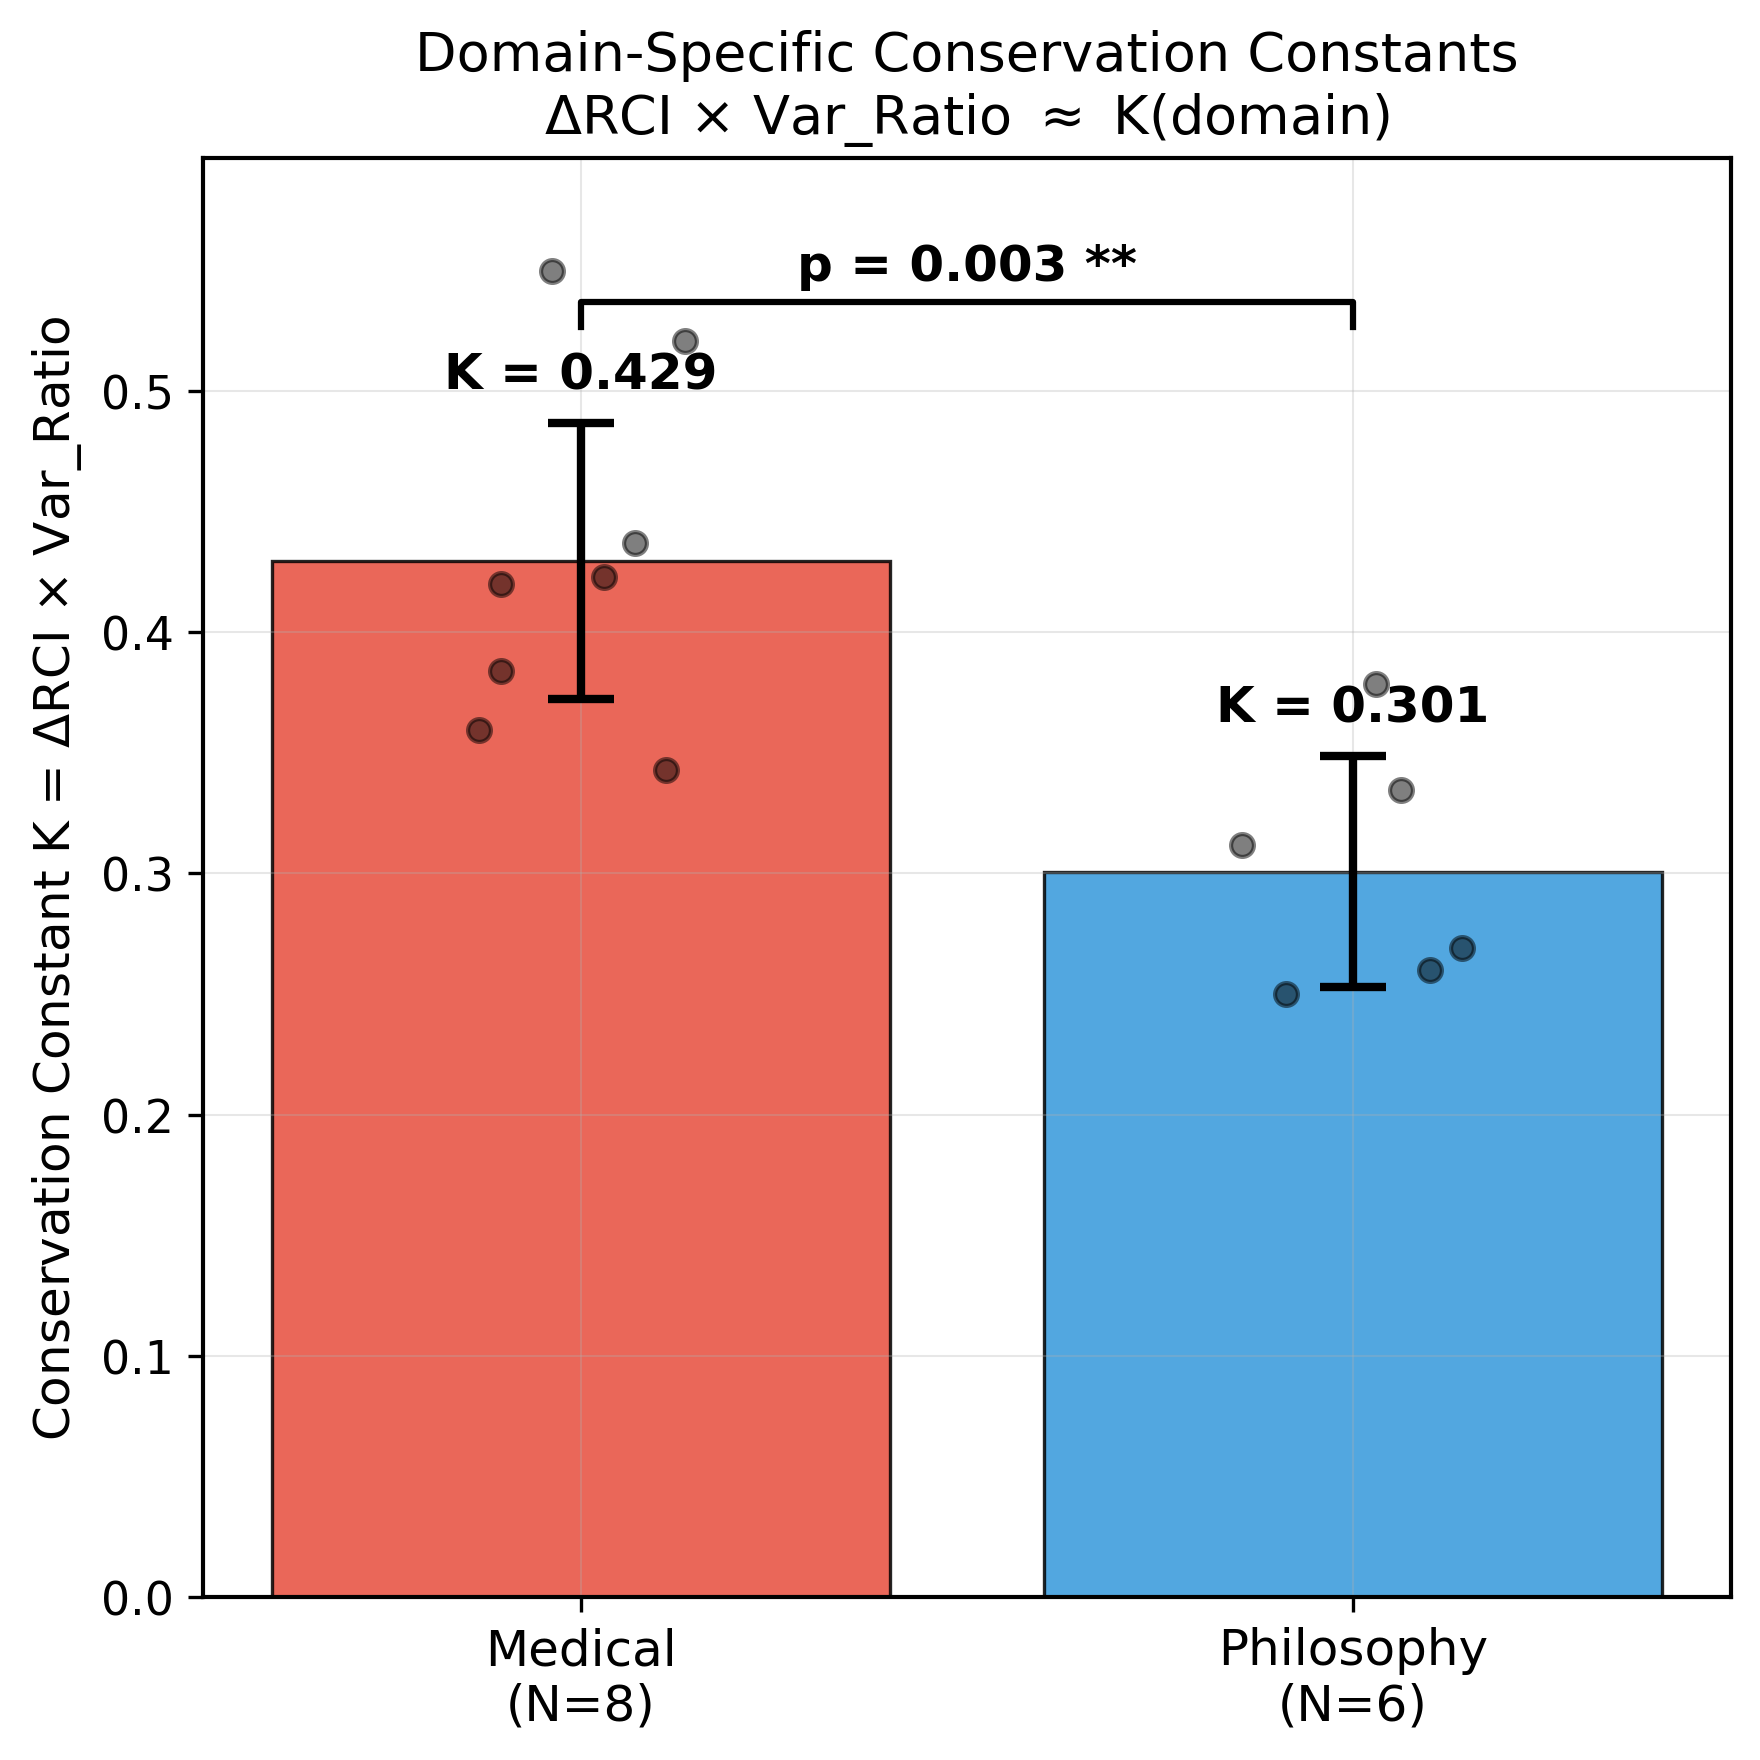
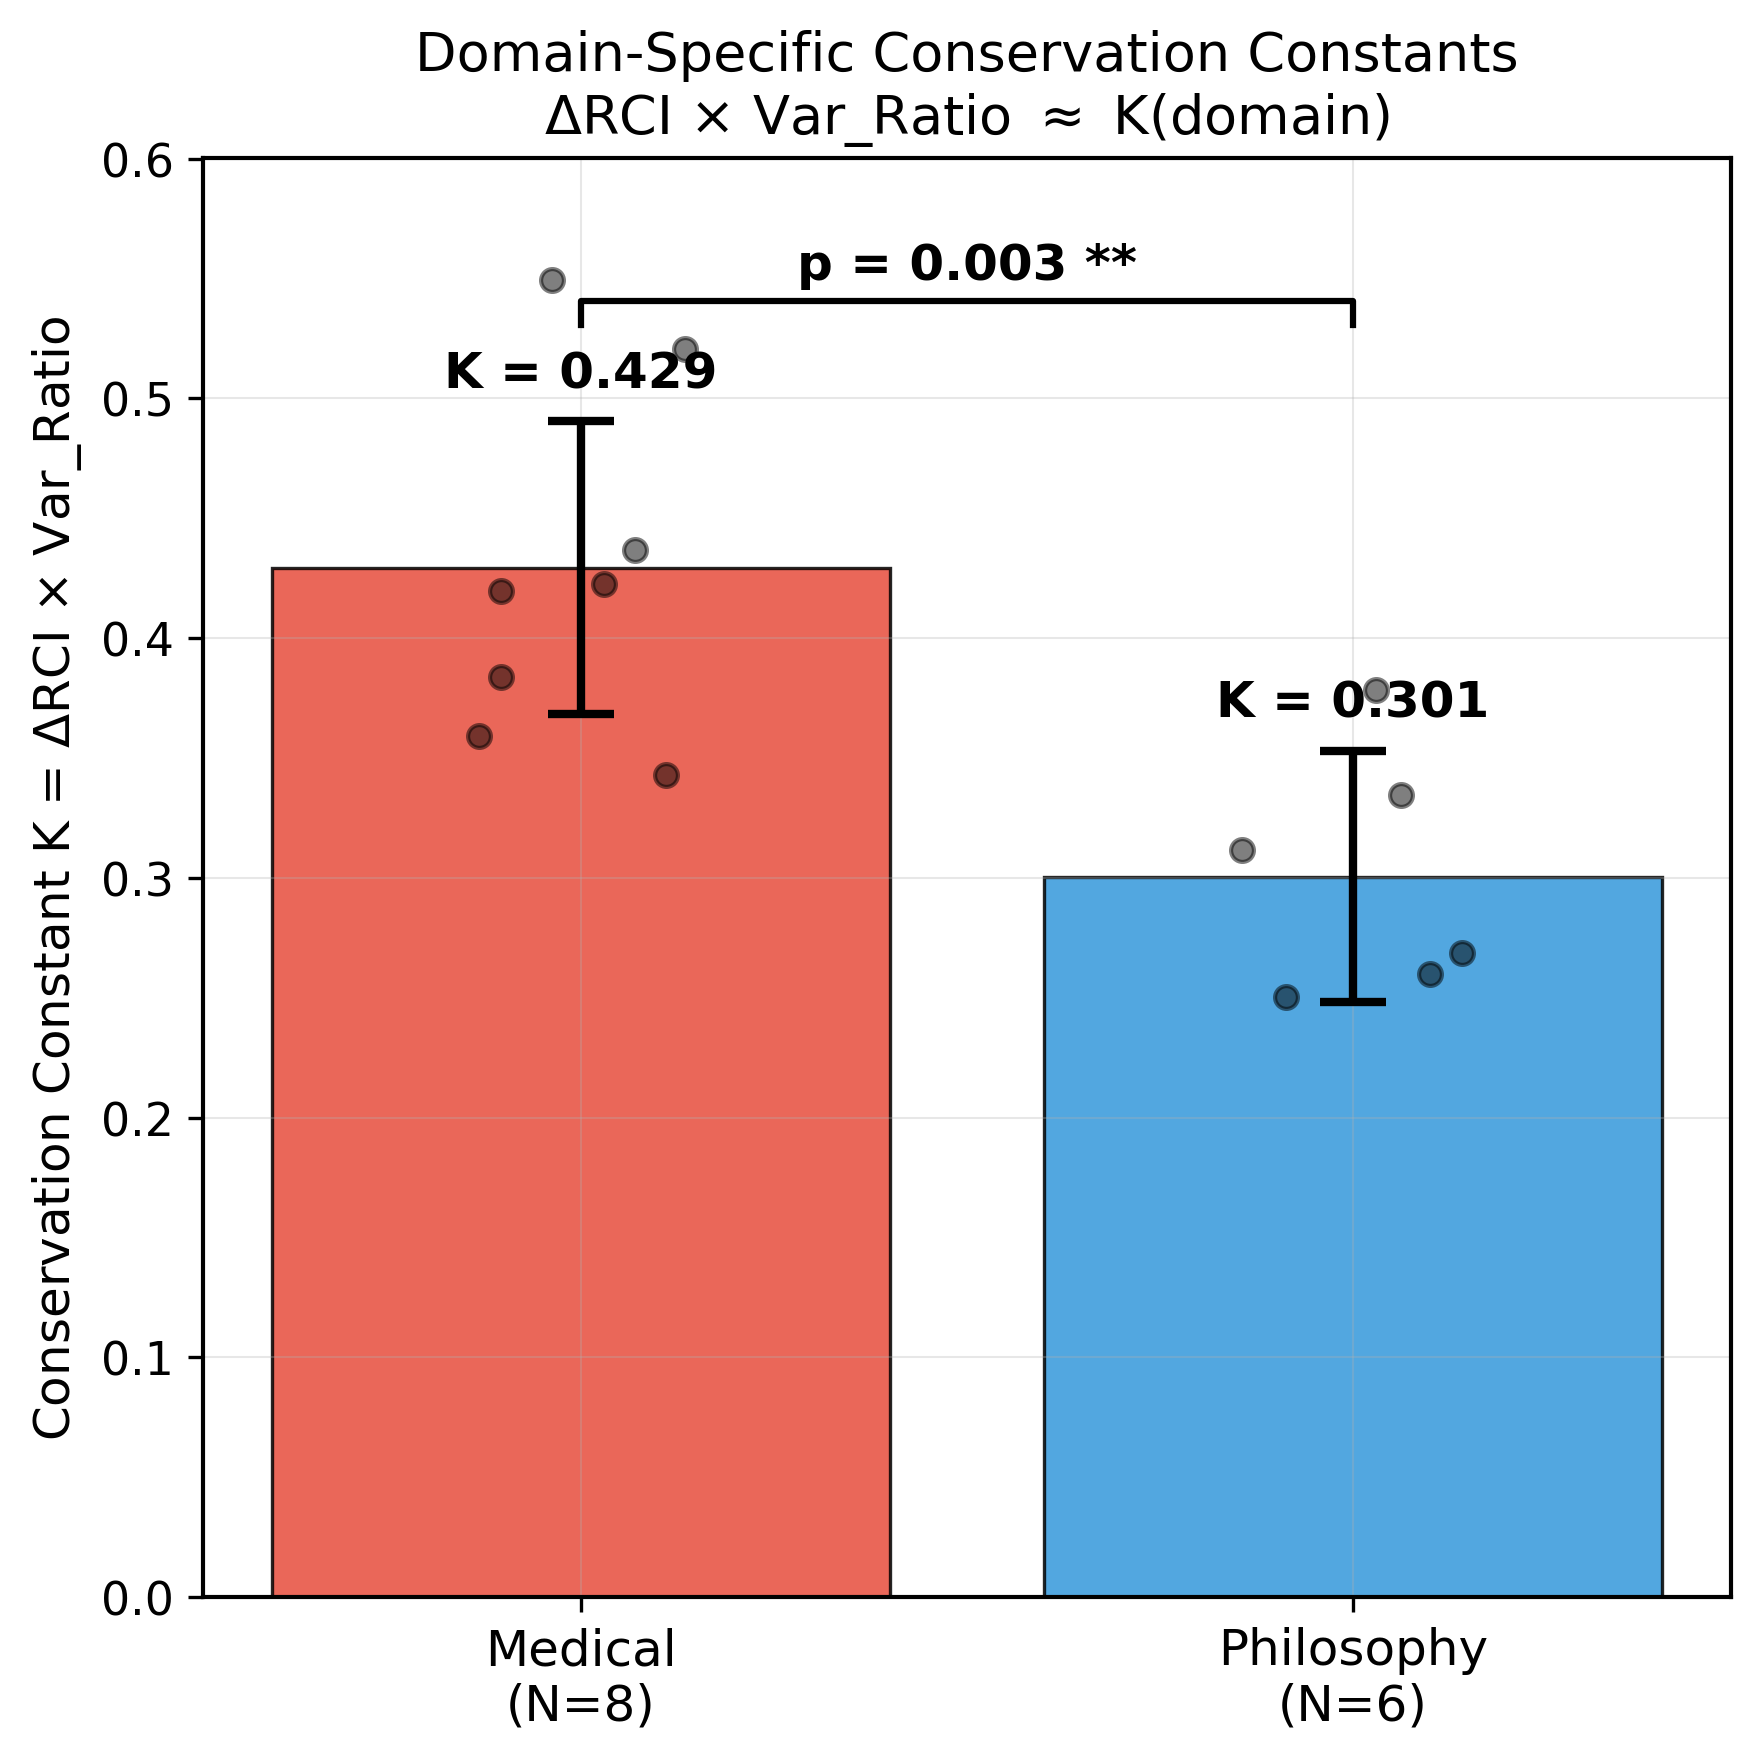
Fix Paper 6 figure CV values (ddof=1) and CONTRIBUTORS.md encoding
- Fix np.std() to use ddof=1 (sample SD) in all 4 Paper 6 figures,
  matching paper-reported CV = 0.170 (Medical) and 0.166 (Philosophy)
- Previously showed population CV = 0.159 and 0.152 (ddof=0)
- Fix corrupted Unicode character in CONTRIBUTORS.md

diff --git a/scripts/analysis/paper6_figures.py b/scripts/analysis/paper6_figures.py
@@ -49,8 +49,8 @@ phil = [d for d in data if d['domain'] == 'Philosophy']
 
 K_med = np.mean([d['product'] for d in med])
 K_phil = np.mean([d['product'] for d in phil])
-cv_med = np.std([d['product'] for d in med]) / K_med
-cv_phil = np.std([d['product'] for d in phil]) / K_phil
+cv_med = np.std([d['product'] for d in med], ddof=1) / K_med
+cv_phil = np.std([d['product'] for d in phil], ddof=1) / K_phil
 
 print(f"Medical:    N={len(med)}, K={K_med:.4f}, CV={cv_med:.4f}")
 print(f"Philosophy: N={len(phil)}, K={K_phil:.4f}, CV={cv_phil:.4f}")
@@ -175,7 +175,7 @@ def fig2_product_distribution():
     ]:
         products = [d['product'] for d in subset]
         mean_p = np.mean(products)
-        std_p = np.std(products)
+        std_p = np.std(products, ddof=1)
 
         # Individual bars
         names = [pretty_name(d['model']) for d in subset]
@@ -228,7 +228,7 @@ def fig3_domain_constants():
     phil_products = [d['product'] for d in phil]
 
     means = [K_med, K_phil]
-    stds = [np.std(med_products), np.std(phil_products)]
+    stds = [np.std(med_products, ddof=1), np.std(phil_products, ddof=1)]
     # 95% CI = mean ± t * (std / sqrt(n))
     ci_med = stats.t.ppf(0.975, len(med_products)-1) * stds[0] / np.sqrt(len(med_products))
     ci_phil = stats.t.ppf(0.975, len(phil_products)-1) * stds[1] / np.sqrt(len(phil_products))

diff --git a/CONTRIBUTORS.md b/CONTRIBUTORS.md
@@ -1,7 +1,7 @@
 # Contributors
 
 ## Human
-- **Dr. Laxman M M** � Principal investigator, research design, integration
+- **Dr. Laxman M M** -- Principal investigator, research design, integration
 
 ## AI Collaborators
 
